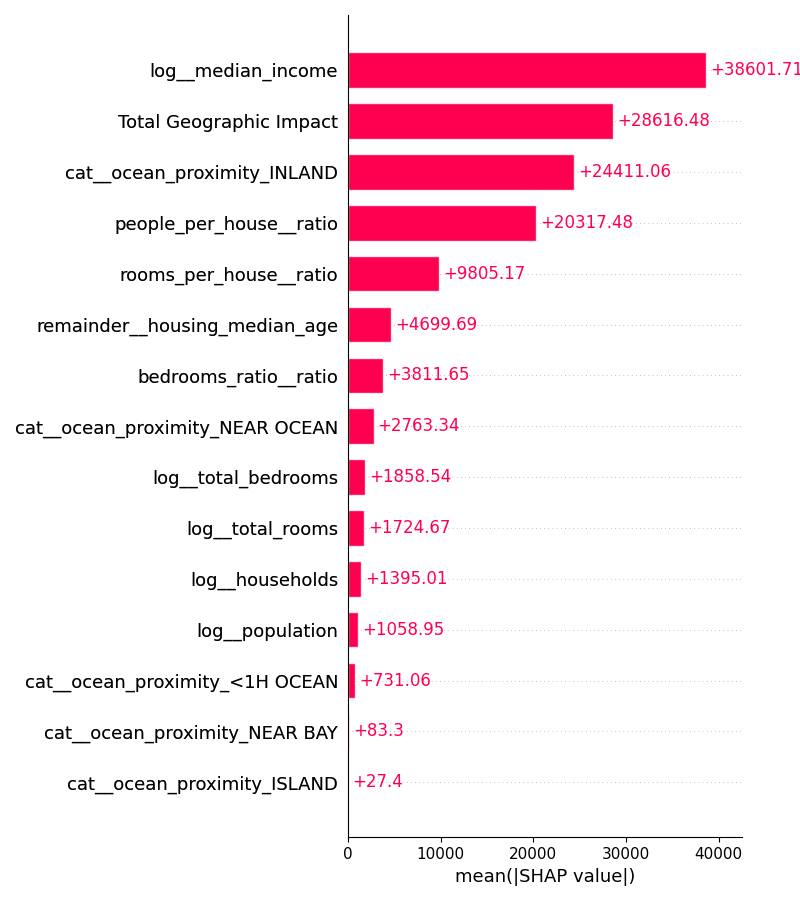
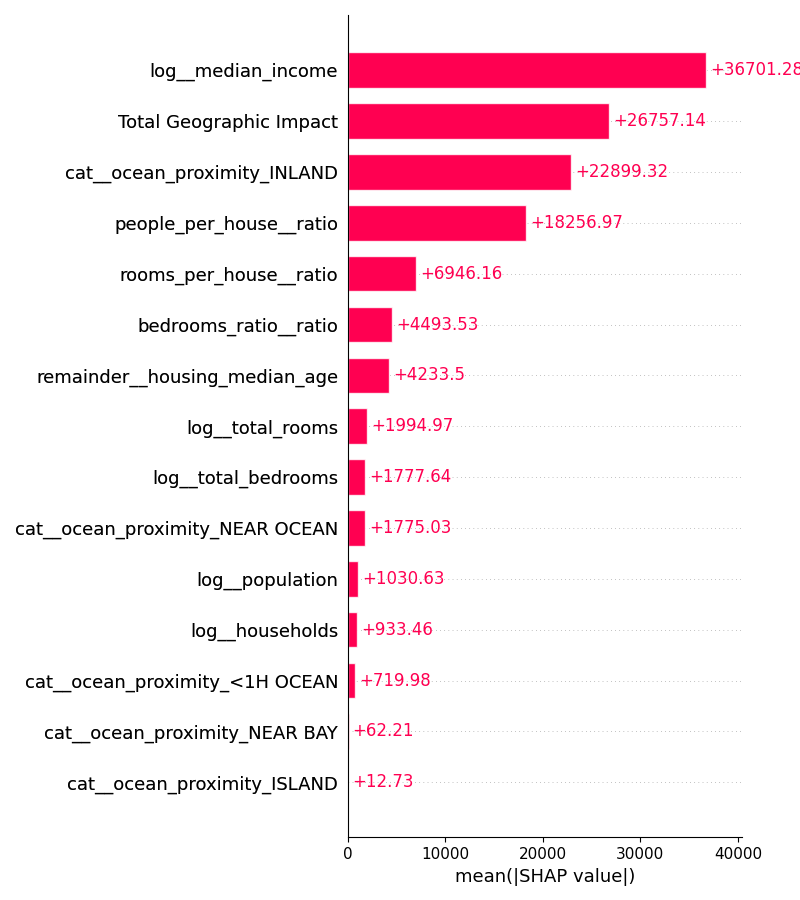
Save before Implementing normal SKLearn Linear Regression for comparison

diff --git a/src/pipeline.py b/src/pipeline.py
@@ -4,6 +4,9 @@ from sklearn.compose import ColumnTransformer, make_column_selector
 from sklearn.impute import SimpleImputer
 from sklearn.preprocessing import StandardScaler, OneHotEncoder, FunctionTransformer
 from xgboost import XGBRegressor  
+# Compare results with the LinearRegressor baseline
+from sklearn.linear_model import LinearRegression
+
 
 # Import  custom transformers and helper functions
 from src.transformers import ClusterSimilarity, column_ratio, ratio_name
